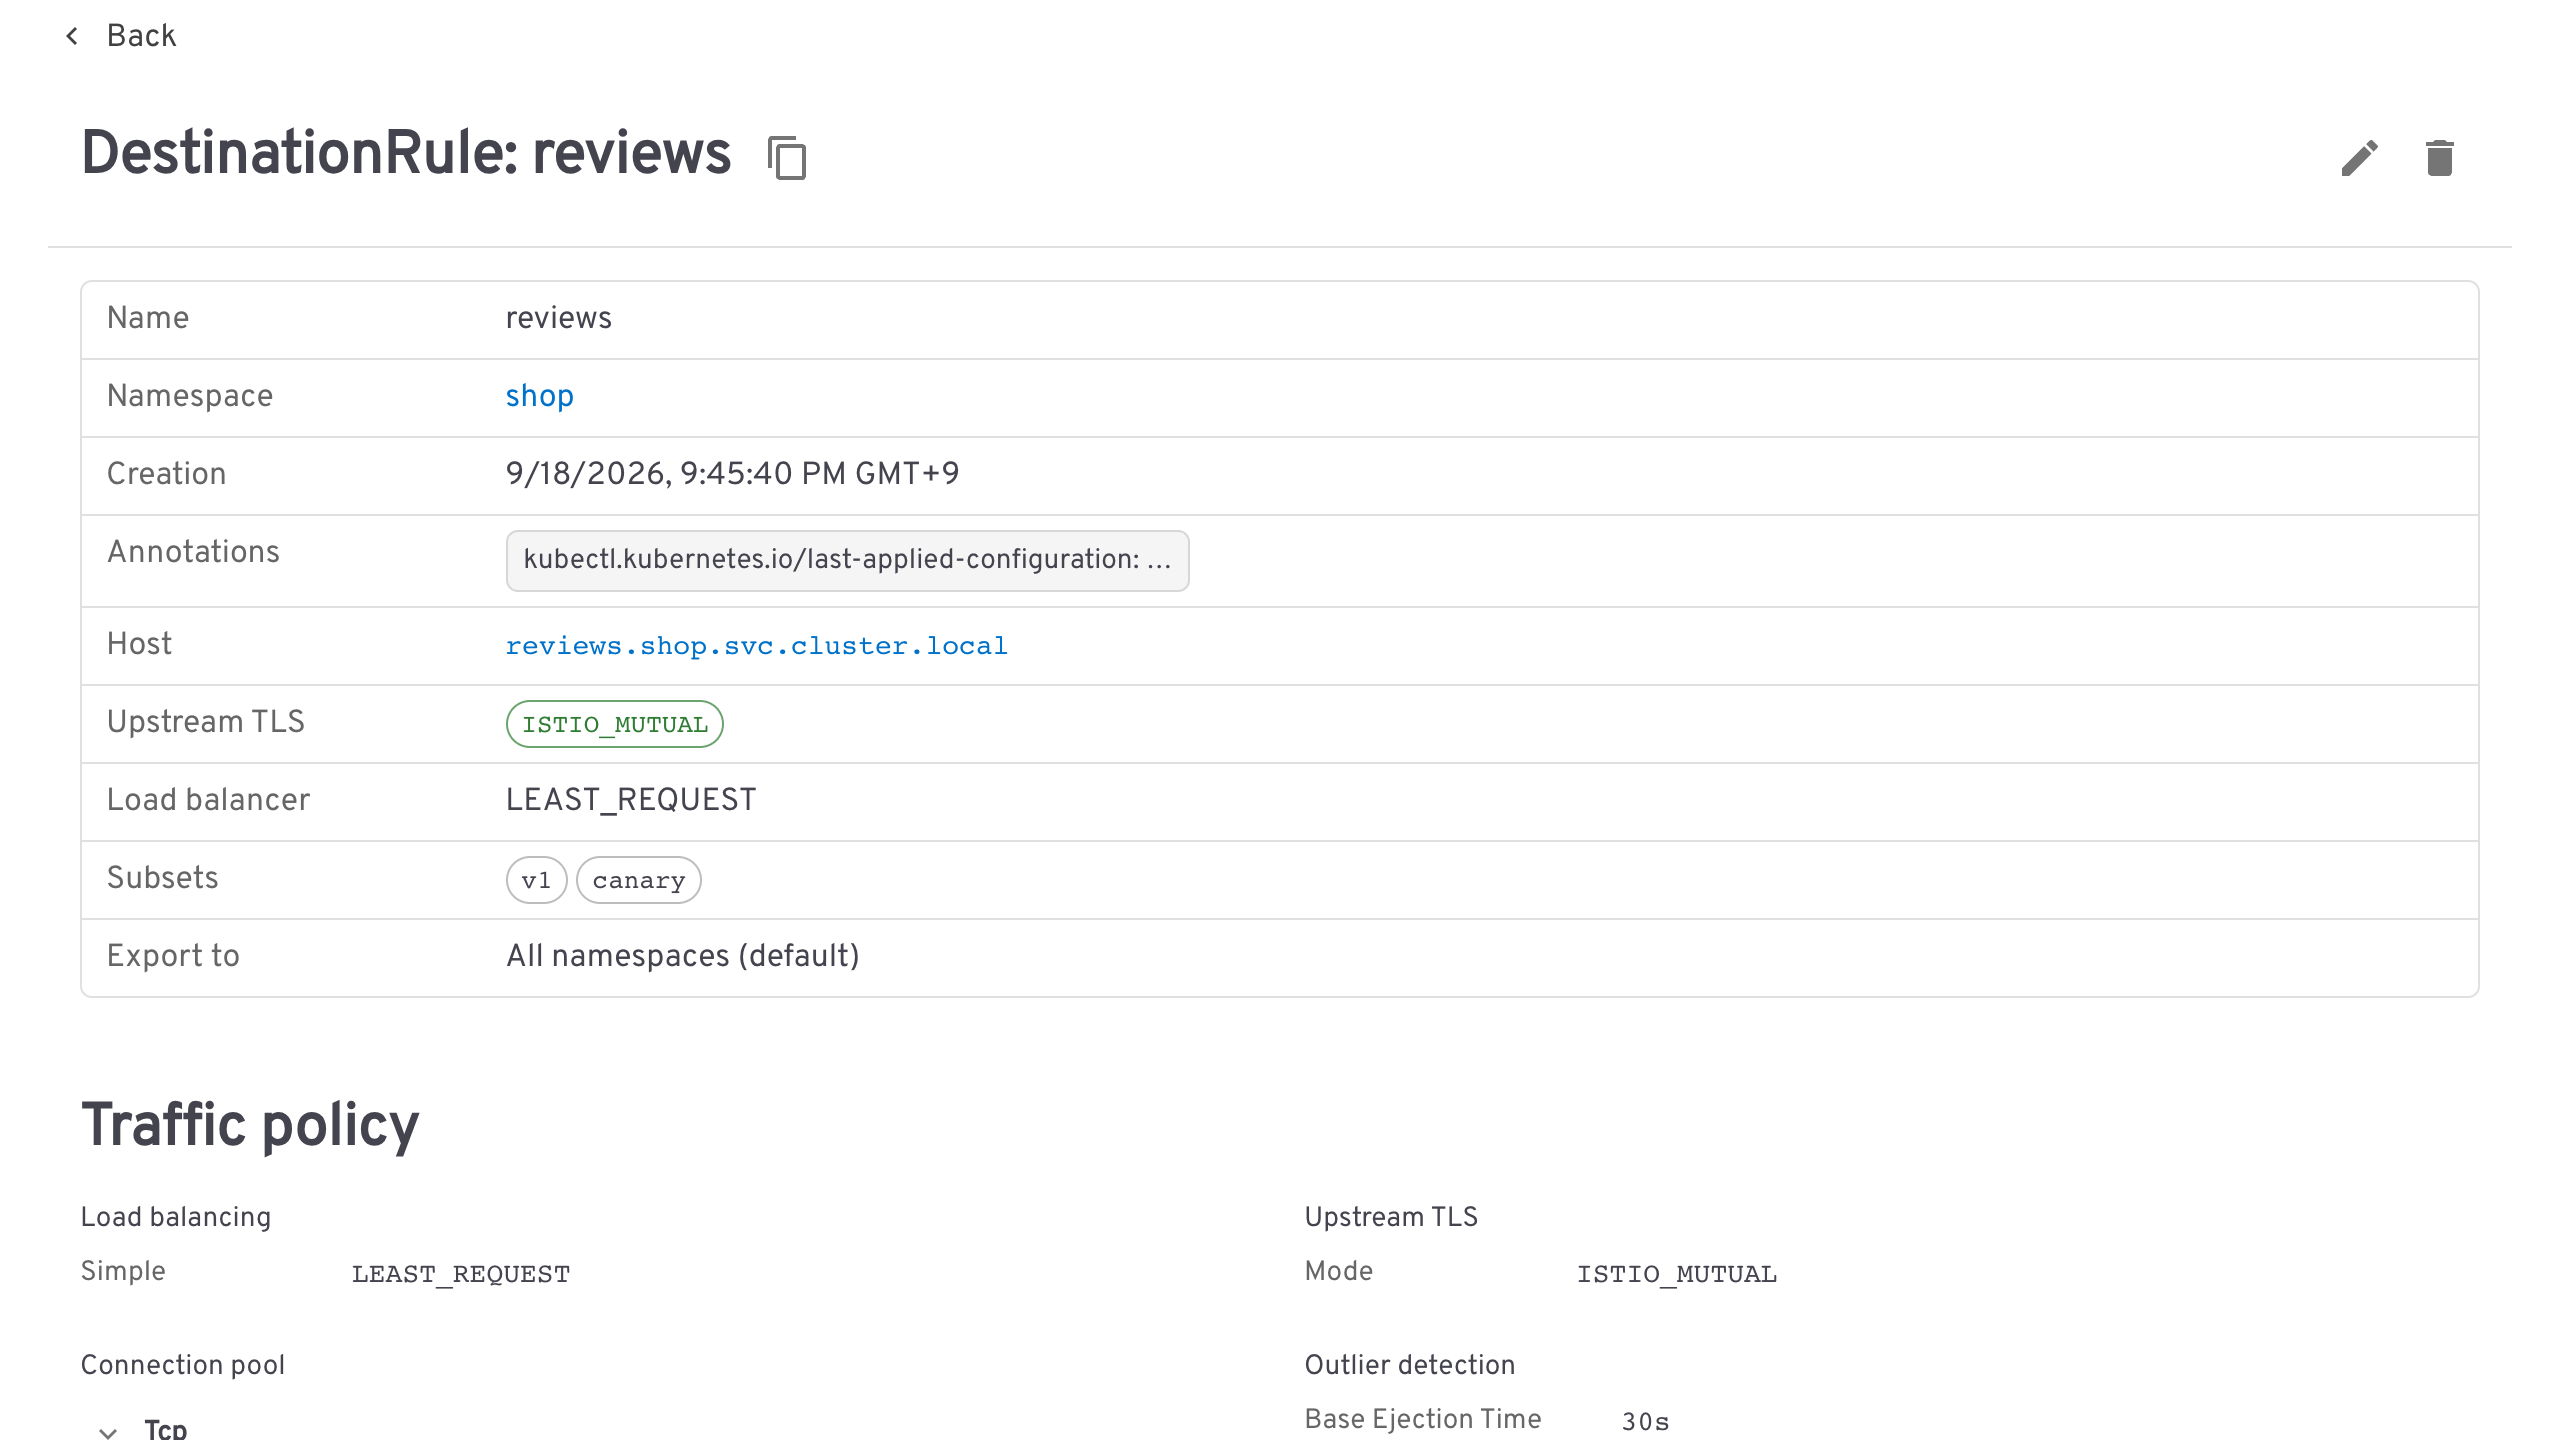
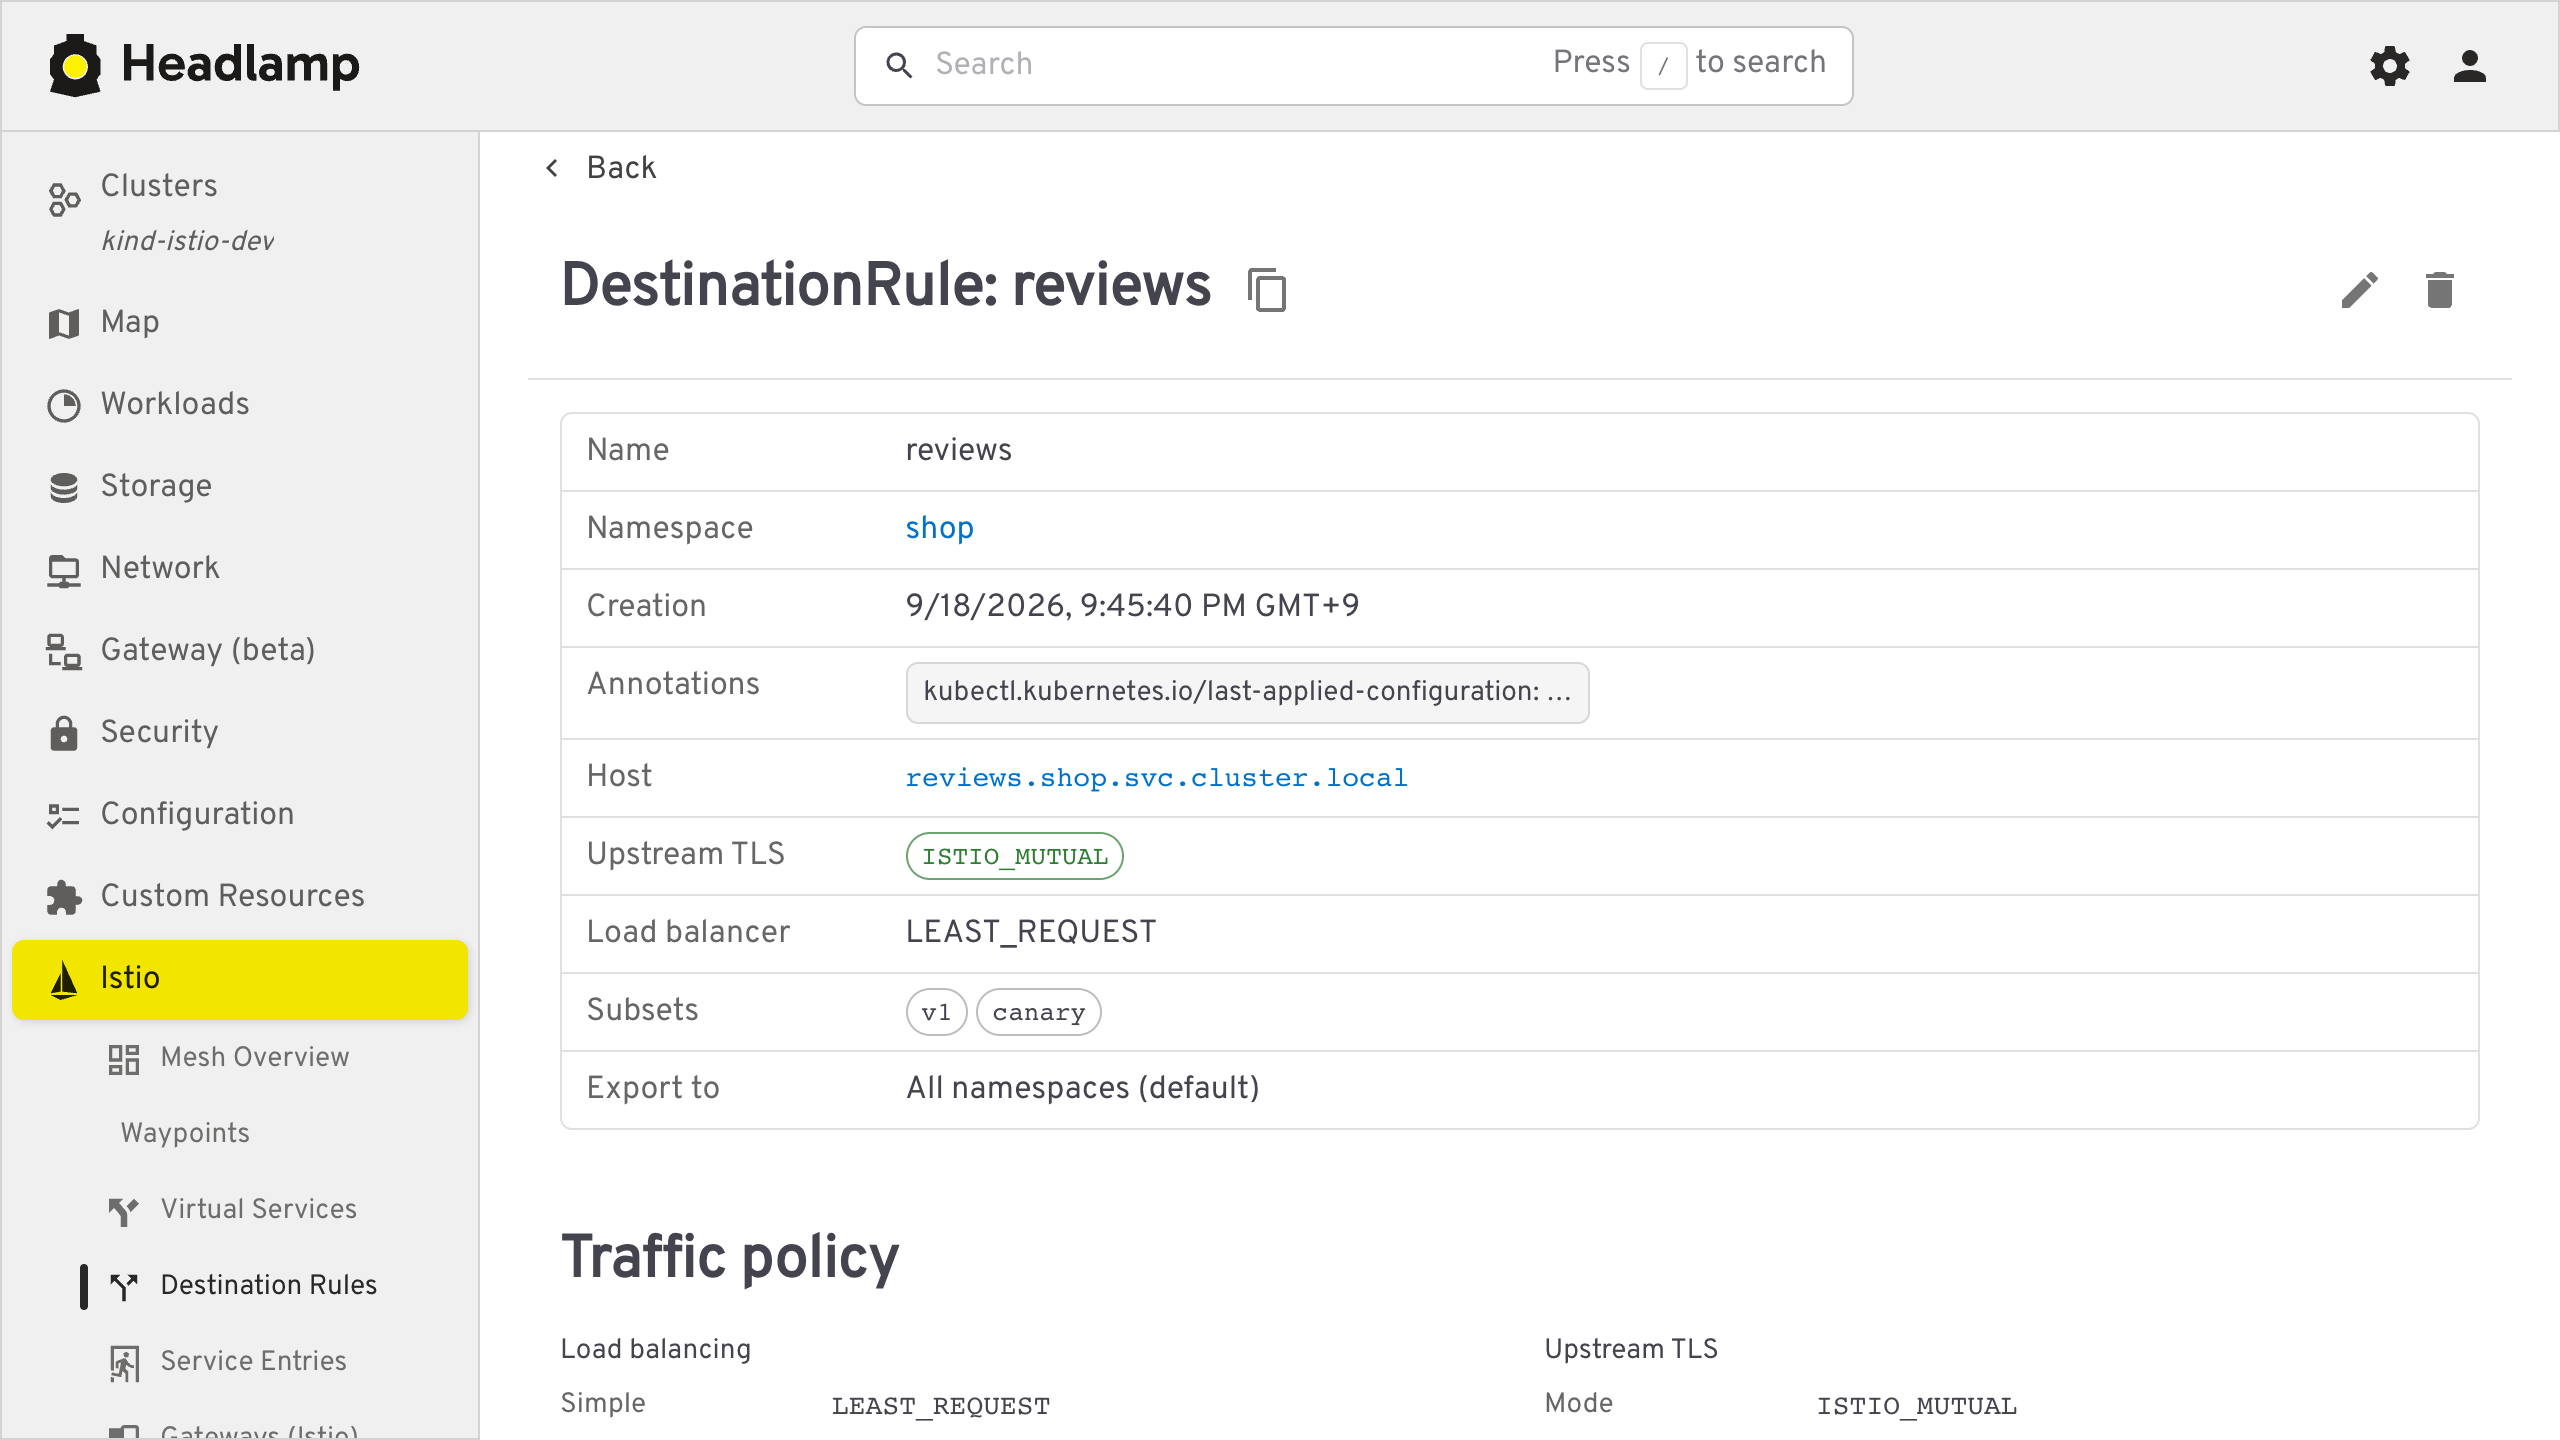
docs: show the plugin and say how to install it
- recapture every screenshot with the Headlamp sidebar in frame
- add a sidebar shot, since the plugin's navigation is part of what it adds
- add list and Pod-column shots alongside the claims they back
- add an Install section: catalogue, release tarball, and build from source
- spell out which resources the plugin needs read access to
- carry the same instructions into the ArtifactHub manifest, whose INSTALL
  button is empty without them

diff --git a/README.md b/README.md
@@ -18,7 +18,56 @@ Waypoints, ztunnel, `istio-cni`, namespace enrolment and the L4/L7 split are sur
 directly, including the case where an L7 `AuthorizationPolicy` reaches ztunnel instead of a
 waypoint and fails closed, denying the traffic it was meant to filter.
 
+![Mesh Overview](docs/images/mesh-overview.png)
+
+## Install
+
+### From Headlamp
+
+Open **Plugins** in the Headlamp sidebar, find **Istio**, and install it. The package is on
+[Artifact Hub](https://artifacthub.io/packages/search?repo=istio-headlamp-plugin).
+
+### From a release tarball
+
+```sh
+VERSION=0.1.1
+mkdir -p ~/.config/Headlamp/plugins
+curl -fsSL "https://github.com/eottabom/istio-headlamp-plugin/releases/download/v${VERSION}/istio-headlamp-plugin-${VERSION}.tar.gz" \
+  | tar xz -C ~/.config/Headlamp/plugins
+```
+
+Every version is on the
+[releases page](https://github.com/eottabom/istio-headlamp-plugin/releases).
+
+For Headlamp in a container, unpack into the directory it serves plugins from and start it
+with `-plugins-dir=/headlamp/plugins`.
+
+### From source
+
+```sh
+git clone https://github.com/eottabom/istio-headlamp-plugin.git
+cd istio-headlamp-plugin
+npm install
+npm run build
+npm run package     # produces istio-headlamp-plugin-<version>.tar.gz
+```
+
+`npm run build` writes `dist/`, which is the plugin itself: copy `dist/` and `package.json`
+into a directory named after the plugin under Headlamp's plugins directory. `dev/deploy.sh`
+does this for the desktop app and any mounted path at once.
+
+### What it needs to read
+
+The Istio CRDs (`networking.istio.io`, `security.istio.io`, `telemetry.istio.io`,
+`extensions.istio.io`), Gateway API `Gateway` objects, and Namespaces, Services, Pods,
+Deployments and DaemonSets. Views that cannot read something say so rather than guessing.
+
 ## Features
+
+Every Istio resource gets its own entry in the sidebar, and only for CRDs the cluster
+actually has.
+
+<img src="docs/images/sidebar.png" alt="Istio section of the Headlamp sidebar" width="240">
 
 ### Spec-first detail views
 
@@ -37,11 +86,14 @@ waypoint and fails closed, denying the traffic it was meant to filter.
 
 ![DestinationRule detail](docs/images/destinationrule.png)
 
+Lists carry the fields that make a resource identifiable, so a page of policies is readable
+without opening any of them.
+
+![AuthorizationPolicy list](docs/images/authorizationpolicies.png)
+
 Every page ends with a **Full spec** section, so nothing in the resource is ever hidden.
 
 ### Ambient mode
-
-![Mesh Overview](docs/images/mesh-overview.png)
 
 - **Mesh Overview**: control-plane version, ztunnel and `istio-cni` DaemonSet health,
   ambient vs sidecar namespace counts, installed Istio APIs.
@@ -69,6 +121,8 @@ Every page ends with a **Full spec** section, so nothing in the resource is ever
   `Out of mesh` column.
 
 ![Waypoints](docs/images/waypoints.png)
+
+![Mesh column on the Pod list](docs/images/pods-mesh-column.png)
 
 ### Istio context on built-in pages
 
